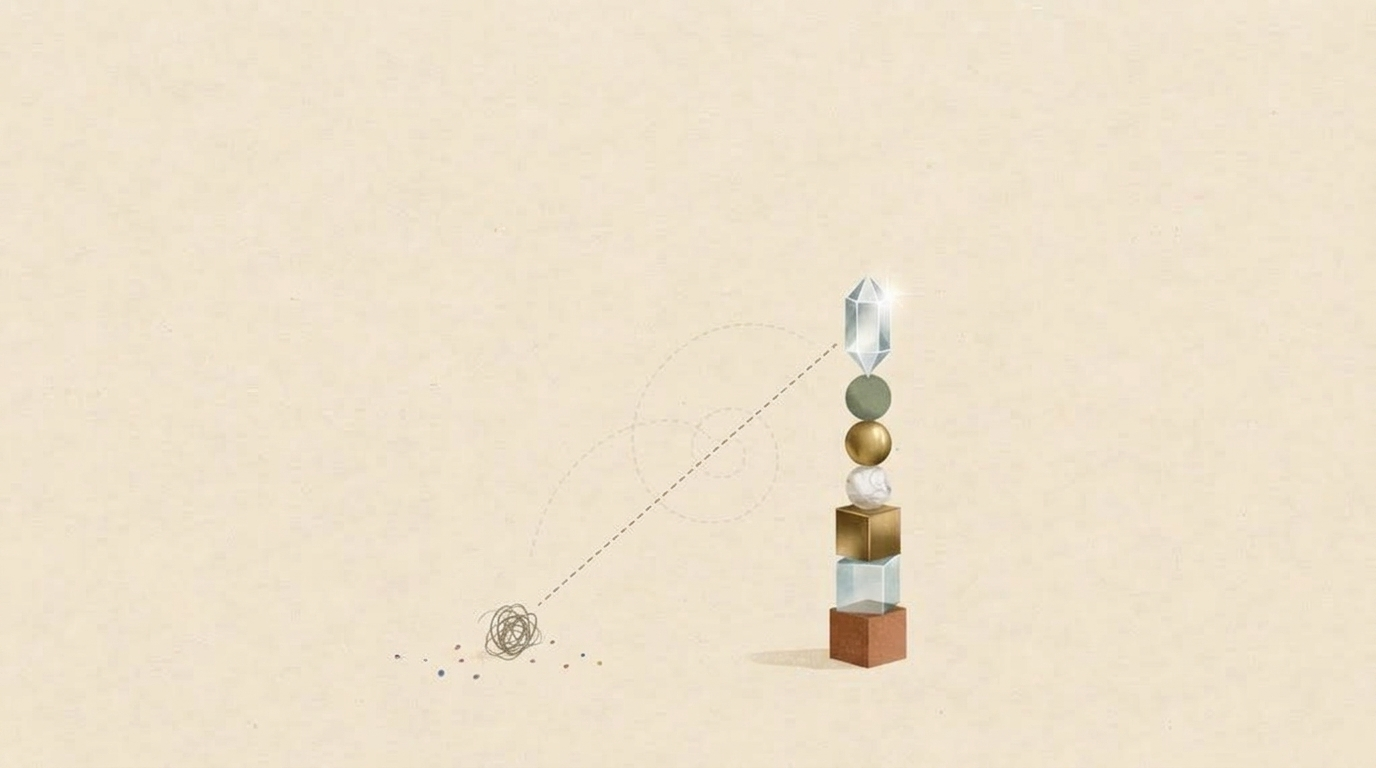
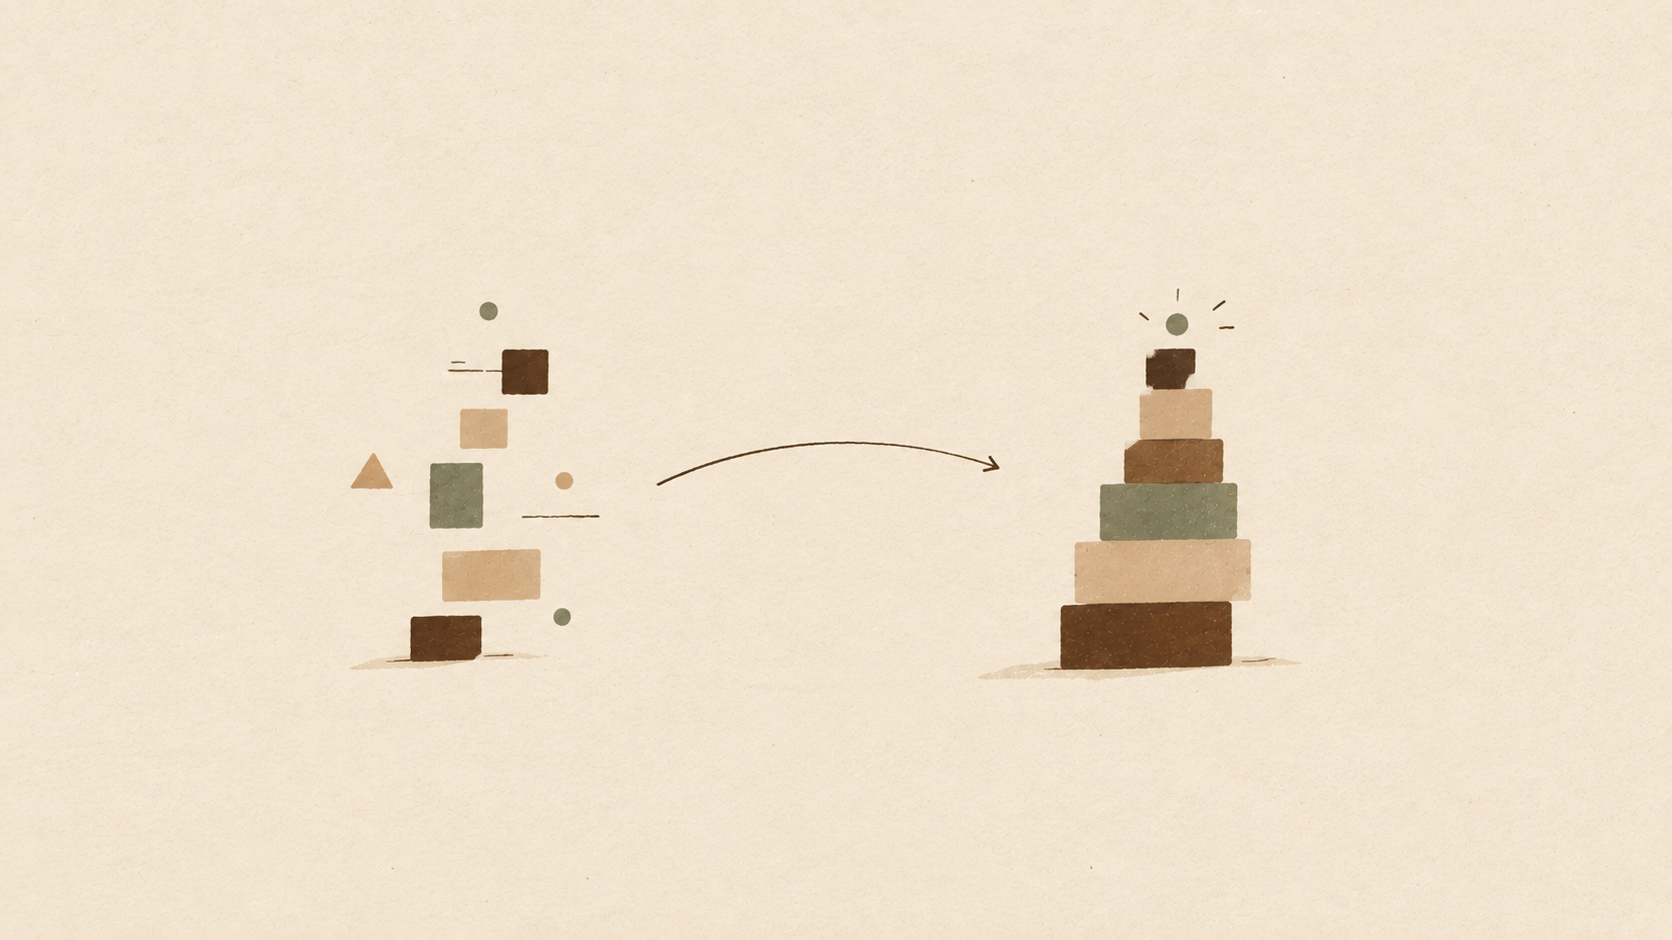
Added 3 new posts, changed colour of tags in updates

diff --git a/app/updates/[slug]/page.tsx b/app/updates/[slug]/page.tsx
@@ -75,7 +75,7 @@ export default async function Post({ params }: PostPageParams) {
 
             {/* Tags */}
             {postData.tags && postData.tags.length > 0 && (
-              <div className="mb-5 flex flex-wrap gap-2">
+              <div className="mb-5 flex flex-wrap gap-2 text-[#f5f0e8]">
                 {postData.tags.map((tag) => (
                   <Tag key={tag} text={tag} />
                 ))}

diff --git a/posts/kv-cache.md b/posts/kv-cache.md
@@ -1,0 +1,162 @@
+---
+
+title: "Adding KV Caching to Gouda"
+
+date: "2026-09-22"
+
+author: "Gouda AI Team"
+
+image: "/kv-cache.png"
+
+tags: ["Gouda", "Update"]
+
+description: "A technical look at KV caching and how Gouda uses it to avoid repeatedly computing previous attention keys and values during generation."
+
+---
+
+## Introduction
+
+Autoregressive language models generate text sequentially.
+
+If a model has already generated:
+
+> "The capital of France is"
+
+and wants to generate the next token, it needs to use the previous context.
+
+A naive implementation can repeatedly process the entire sequence from the beginning.
+
+That works, but it performs unnecessary computation.
+
+Gouda therefore uses **key-value caching**, commonly called KV caching, during autoregressive generation.
+
+## The problem
+
+Consider a sequence growing one token at a time.
+
+For the first token, the model processes:
+
+A
+
+For the second:
+
+A B
+
+For the third:
+
+A B C
+
+For the fourth:
+
+A B C D
+
+If every generation step recomputes attention for every previous token, the same information is repeatedly calculated.
+
+The amount of computation therefore grows significantly as the context becomes longer.
+
+## What attention actually needs
+
+For each transformer attention layer, the model produces:
+
+- Queries (Q)
+- Keys (K)
+- Values (V)
+
+When generating the next token, the new query needs to attend to the keys and values associated with previous tokens.
+
+Those previous keys and values do not change.
+
+Once the model has processed a token, its K and V representations can therefore be stored.
+
+The next generation step only needs to calculate the new token's K and V and combine them with the cached representations.
+
+## Without KV caching
+
+Conceptually:
+
+Step 1:
+[A]
+
+Step 2:
+[A B]
+
+Step 3:
+[A B C]
+
+Step 4:
+[A B C D]
+
+The model repeatedly processes the existing context.
+
+## With KV caching
+
+Instead:
+
+Step 1:
+A → K₁,V₁
+
+Step 2:
+B → K₂,V₂
+      + K₁,V₁
+
+Step 3:
+C → K₃,V₃
+      + K₁,V₁,K₂,V₂
+
+Step 4:
+D → K₄,V₄
+      + K₁,V₁,K₂,V₂,K₃,V₃
+
+The previous K/V representations are reused.
+
+## Why this matters for Gouda
+
+Gouda models are small, but the API still needs to generate responses efficiently.
+
+The model may produce hundreds of tokens during a single request. Recomputing the entire prompt and generated sequence at every step would waste a significant amount of computation.
+
+KV caching allows the inference system to take advantage of the autoregressive structure of transformer generation.
+
+## KV caching and streaming
+
+KV caching works particularly well alongside streaming.
+
+The generation process becomes:
+
+Prompt
+  ↓
+Prefill
+  ↓
+Create KV cache
+  ↓
+Generate token
+  ↓
+Update cache
+  ↓
+Stream token
+  ↓
+Generate next token
+  ↓
+Update cache
+  ↓
+Stream token
+
+The user sees tokens arriving progressively while the model avoids repeatedly recomputing the entire history.
+
+## A useful distinction
+
+KV caching does not change what the model has learned.
+
+It does not improve the model's knowledge, reasoning or benchmark scores.
+
+It is an inference optimisation.
+
+The same model weights produce the same underlying predictions; the difference is that the inference engine performs the computation more efficiently.
+
+## Conclusion
+
+KV caching is a relatively small implementation detail with a substantial practical impact.
+
+For Gouda, it forms part of the infrastructure that turns a trained checkpoint into a usable conversational model.
+
+Together with streaming inference, it allows the API to generate responses incrementally while avoiding unnecessary repeated computation.

diff --git a/posts/streaming-inference.md b/posts/streaming-inference.md
@@ -1,0 +1,121 @@
+---
+title: "Introducing Streaming Inference to Gouda"
+
+date: "2026-09-22"
+
+author: "Gouda AI Team"
+
+image: "/streaming-inference.png"
+
+tags: ["Gouda", "Update"]
+
+description: "How Gouda's API moved from waiting for a complete response to streaming generated tokens as they are produced."
+
+---
+
+## Introduction
+
+Language models generate text one token at a time.
+
+A conventional API can hide that fact by waiting until generation has finished before returning anything to the user. For a model generating a long response, this can create an unnecessarily large delay between sending a request and seeing the first part of the answer.
+
+Gouda's API therefore supports **streaming generation**.
+
+Instead of waiting for the complete response, the API can send generated text to the client as generation progresses.
+
+## Standard generation
+
+Without streaming, the process looks approximately like this:
+
+User
+ ↓
+API request
+ ↓
+Tokenise prompt
+ ↓
+Generate complete response
+ ↓
+Return response
+ ↓
+User sees text
+
+If generating the response takes several seconds, the user sees nothing during most of that time.
+
+This is particularly noticeable with language models because generation is inherently sequential.
+
+## Streaming generation
+
+With streaming, the process becomes:
+
+User
+ ↓
+API request
+ ↓
+Tokenise prompt
+ ↓
+Generate token
+ ↓
+Send token
+ ↓
+Generate token
+ ↓
+Send token
+ ↓
+Generate token
+ ↓
+Send token
+ ↓
+...
+
+The model still takes the same fundamental steps to generate the response, but the interface no longer waits for the entire generation.
+
+The first generated tokens can appear almost immediately after they become available.
+
+## Gouda's implementation
+
+The Gouda API uses FastAPI for the server and exposes a streaming chat endpoint.
+
+The server generates tokens incrementally and returns them through a streaming response rather than constructing the entire answer first.
+
+This makes the API suitable for the Gouda website's chat interface.
+
+The frontend can consume the response and progressively update the conversation as new text arrives.
+
+## Why streaming matters
+
+Streaming does not magically make the model generate tokens faster.
+
+Its main advantage is perceived latency.
+
+Consider a response that takes five seconds to generate.
+
+A non-streaming API might produce:
+
+0s ─────────────── 5s
+                  ↓
+              complete answer
+
+Streaming can instead produce:
+
+0s → token → token → token → token → ... → 5s
+
+The total generation time may be similar, but the user can begin reading the response much earlier.
+
+## The model and interface are separate
+
+An important architectural distinction is that streaming belongs primarily to the inference and API layer rather than the underlying transformer architecture.
+
+The model still predicts one token at a time.
+
+The API determines whether those predictions are:
+
+accumulated into a complete response; or
+transmitted progressively to the client.
+
+This separation allows the same model to be used through different interfaces.
+
+## Streaming in Gouda
+
+Streaming was one of the steps that turned the Gouda API from a simple model-serving endpoint into a more complete conversational system.
+
+Combined with KV caching and the public website, it allows a relatively small language model to provide an interface that behaves much more like a modern chat application.

diff --git a/posts/gouda-hf.md b/posts/gouda-hf.md
@@ -1,0 +1,99 @@
+---
+
+title: "Gouda Comes to Hugging Face"
+
+date: "2026-09-22"
+
+author: "Gouda AI Team"
+
+image: "/gouda-hf.png"
+
+tags: ["Gouda", "Update"]
+
+description: "How Gouda moved from locally trained checkpoints to models that can be loaded and used through the Hugging Face ecosystem."
+
+---
+
+## Introduction
+
+Training a language model is only part of building a usable model.
+
+A checkpoint sitting on a training machine is difficult for anyone else to use. For Gouda to become an actual open model project, the models needed to be packaged, documented and distributed in a standard way.
+
+This led to Gouda's integration with the **Hugging Face ecosystem**.
+
+## From checkpoint to model
+
+During development, Gouda models were initially stored as PyTorch checkpoints.
+
+This was useful during training because it kept the process simple. A checkpoint could contain the complete model and be loaded directly into the project's own code.
+
+However, distribution introduces additional requirements.
+
+A public model needs to communicate:
+
+- what architecture it uses;
+- what configuration it requires;
+- which tokenizer it expects;
+- how generation should be performed;
+- and how another user can reproduce inference.
+
+The Hugging Face ecosystem provides a standard interface for many of these requirements.
+
+## Custom model architecture
+
+Gouda does not simply use an off-the-shelf architecture.
+
+The project's model implementation has to represent the exact architecture used during training. This became particularly important as the project moved between older GPT-style checkpoints and the newer Gruyère models.
+
+Compatibility therefore became a real engineering problem.
+
+A checkpoint trained with one architecture cannot simply be loaded into an implementation with a different set of layers, dimensions or parameter names.
+
+This led to more deliberate separation between:
+
+- model configuration;
+- model implementation;
+- checkpoint weights;
+- tokenizer;
+- generation code.
+
+## Why distribution matters
+
+Publishing a model changes what the project is.
+
+Before distribution, Gouda is primarily a personal experiment.
+
+After distribution, another person can download the model, inspect it, run inference and evaluate it independently.
+
+That makes reproducibility much more important.
+
+It also makes documentation important. A model card is not just promotional material. It records what the model is, what data it was trained on, how it was evaluated and where its limitations lie.
+
+## The wider Gouda ecosystem
+
+Hugging Face became one part of a larger system surrounding the models.
+
+The current Gouda project consists of several interconnected components:
+
+Training
+   ↓
+Checkpoint
+   ↓
+Model packaging
+   ↓
+Hugging Face
+   ↓
+Inference
+   ↓
+Gouda API
+   ↓
+Gouda website
+
+The purpose of this infrastructure is ultimately simple: make the models easier to inspect and use.
+
+## Conclusion
+
+The move to Hugging Face marked an important transition for Gouda.
+
+The project was no longer only about experimenting with transformer training. It was becoming an end-to-end open model project, where training, evaluation, packaging, inference and documentation all formed part of the same system.
